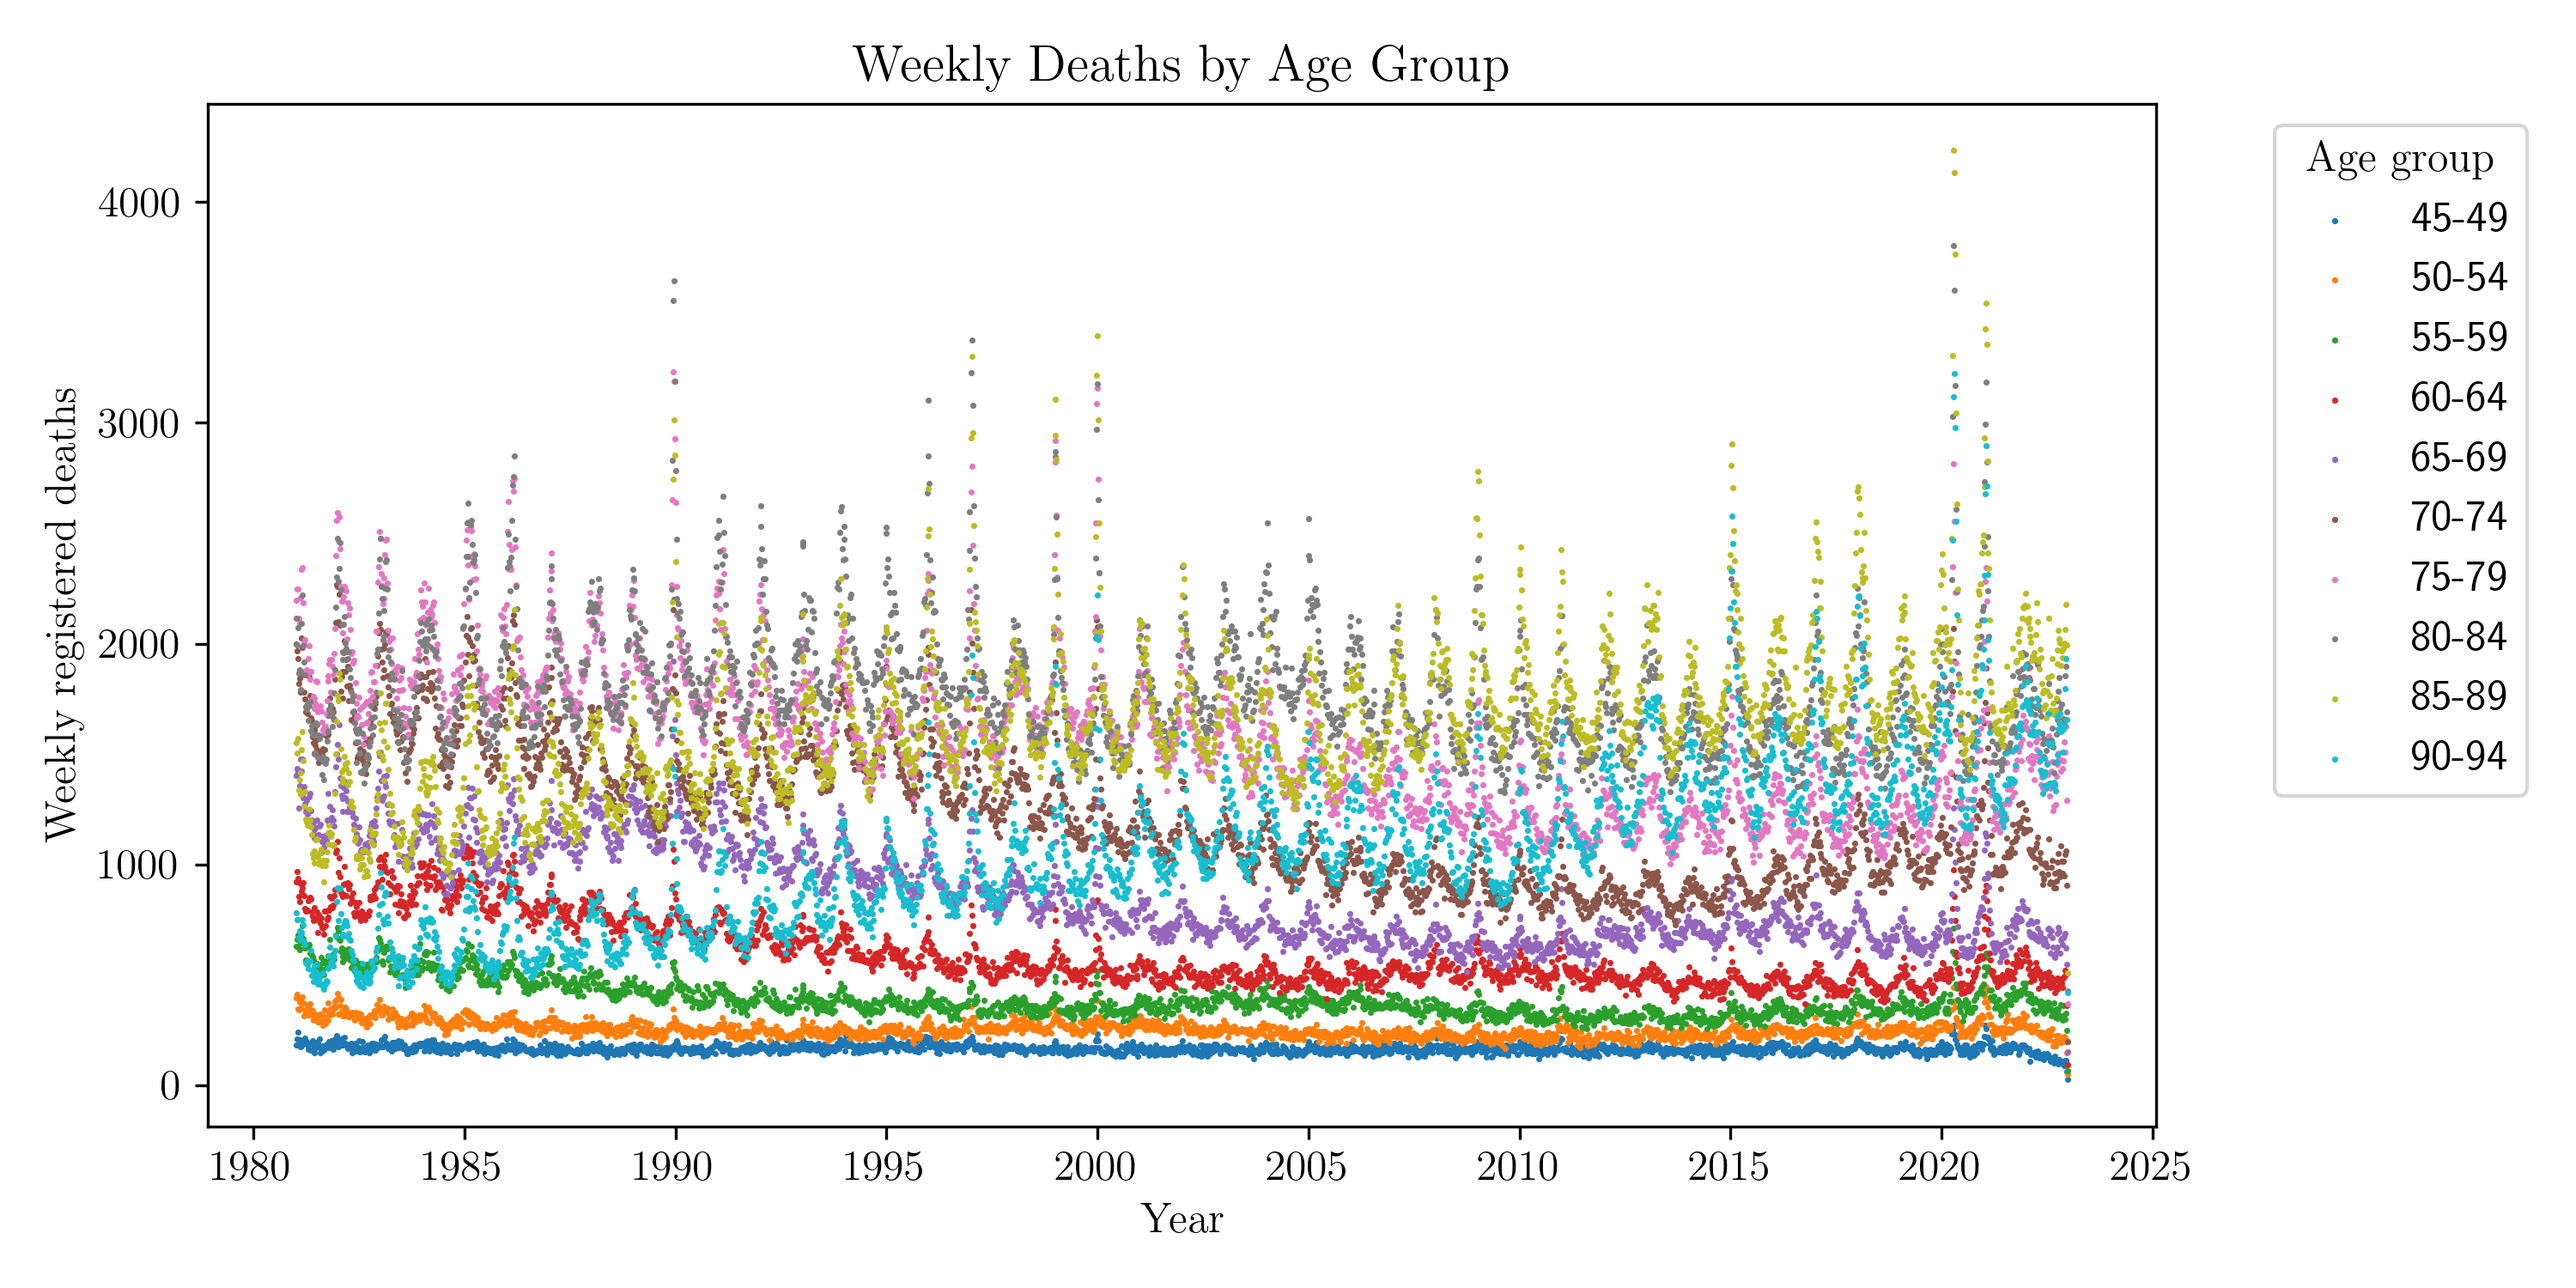
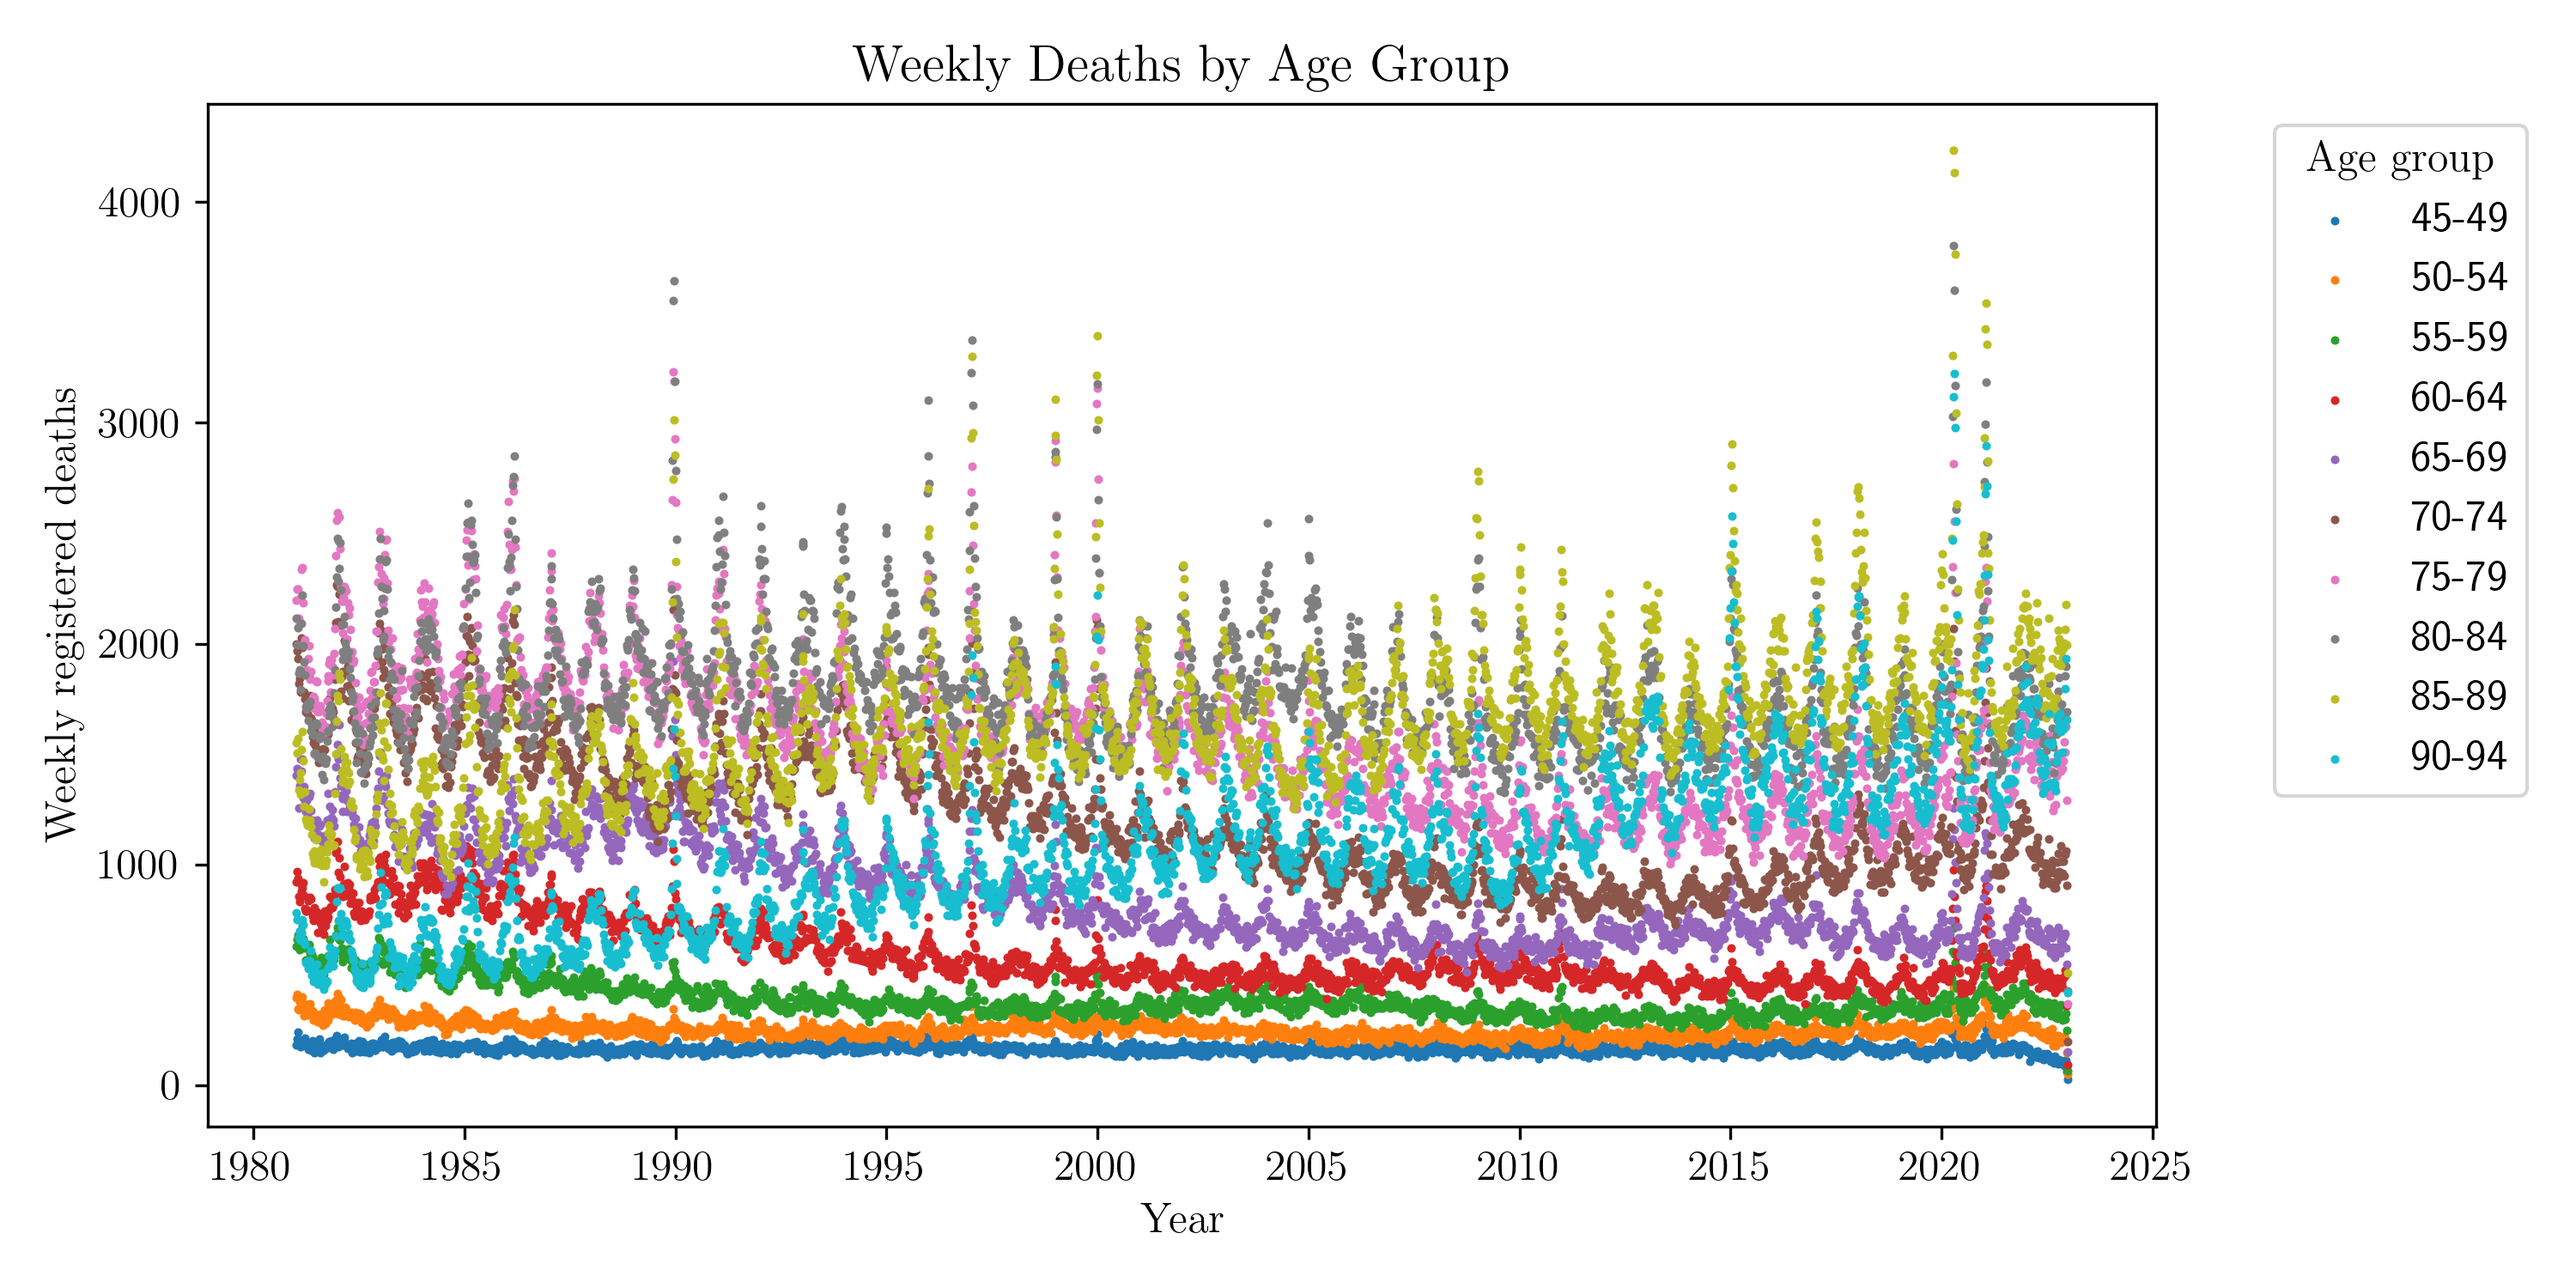
Added deaths vs temperature data exploration

Changed region(s): [[0.093, 0.4293, 0.806, 0.828]]

diff --git a/Data/PreliminaryDataExploration/temperature_vs_deaths/temperature_deaths.py b/Data/PreliminaryDataExploration/temperature_vs_deaths/temperature_deaths.py
@@ -1,0 +1,134 @@
+import numpy as np
+import pandas as pd
+import matplotlib.pyplot as plt
+plt.rc('text', usetex = True)  #TeX text on plots
+import scipy
+from scipy.optimize import *
+plt.rcParams.update({'font.size': 12})
+from matplotlib import colormaps
+
+list_of_regions = [
+    "NorthEast",
+    "NorthWest",
+    "YorkshireandtheHumber",
+    "EastMidlands",
+    "WestMidlands",
+    "East",
+    "London",
+    "SouthEast",
+    "SouthWest",
+    "Wales"
+]
+
+list_of_region_names_for_plots = [
+    "North East",
+    "North West",
+    "Yorkshire and the Humber",
+    "East Midlands",
+    "West Midlands",
+    "East",
+    "London",
+    "South East",
+    "South West",
+    "Wales"
+]
+
+list_of_region_codes = [
+    "E12000001",
+    "E12000002",
+    "E12000003",
+    "E12000004",
+    "E12000005",
+    "E12000006",
+    "E12000007",
+    "E12000008",
+    "E12000009",
+    "W92000004"
+]
+
+list_of_cities = [
+    "newcastle-upon-tyne",
+    "manchester",
+    "leeds",
+    "nottingham",
+    "birmingham",
+    "norwich",
+    "london",
+    "brighton-and-hove",
+    "bristol",
+    "cardiff"
+]
+
+#open deaths data
+deaths_data_loc = "../../HealthData/Weekly_deaths_by_age_and_region_1981_2022/"
+deaths_data_file = "weeklydeathoccurrences19812022final.csv"
+df = pd.read_csv(deaths_data_loc + deaths_data_file)
+print(df.head())
+
+df["Week_start_date_(Saturday)"] = pd.to_datetime(df["Week_start_date_(Saturday)"], errors="coerce")
+df["Week_end_date_(Friday)"] = pd.to_datetime(df["Week_end_date_(Friday)"], errors="coerce")
+df = df.sort_values("Week_start_date_(Saturday)")
+	
+#group by week, so male and female rows are combined
+df = df.groupby("Week_start_date_(Saturday)", as_index=False).sum(numeric_only=True)
+df = df.sort_values("Week_start_date_(Saturday)") 
+#Keep only rows up to December 31, 2019
+df = df[df["Week_start_date_(Saturday)"] <= "2019-12-31"]
+
+#make column of total weekly deaths for each region
+for i in range(len(list_of_region_codes)):
+	column_name = list_of_region_codes[i] + "_total_deaths"
+	region_cols = [c for c in df.columns if c.startswith(list_of_region_codes[i])]
+	df[column_name] = df[region_cols].sum(axis=1) 
+
+#for each week, make column of the mean of the 7 daily max temperatures
+for i in range(len(list_of_regions)):
+    #open weather data
+    weather_data_loc = f"../../Weather_data/{list_of_regions[i]}/"
+    weather_data_file = f"{list_of_cities[i]}_1981-01-01_to_2019-12-31.csv"
+    weather_df = pd.read_csv(weather_data_loc + weather_data_file)
+
+    weather_df["datetime"] = pd.to_datetime(weather_df["datetime"])
+
+    #create week start date (Saturday) for grouping
+    weather_df["Week_start_date_(Saturday)"] = weather_df["datetime"] - pd.to_timedelta(
+        (weather_df["datetime"].dt.dayofweek - 5) % 7, unit="D"
+    )
+
+    #group by week and compute average of max temperature
+    weekly_temp = (
+        weather_df.groupby("Week_start_date_(Saturday)", as_index=False)["tempmax"]
+        .mean()
+        .rename(columns={"tempmax": f"{list_of_region_codes[i]}_mean_tempmax"})
+    )    
+
+    #merge weekly temperature into deaths dataframe
+    df = df.merge(weekly_temp, on="Week_start_date_(Saturday)", how="left")
+
+#make individual plots for each region   
+for i in range(len(list_of_regions)):
+	x_data = list_of_region_codes[i] + "_mean_tempmax"
+	y_data = list_of_region_codes[i] + "_total_deaths"
+	plt.scatter(df[x_data], df[y_data], s = 2)
+	plt.xlabel(r'\rm Mean daily maximum temperature / $^{\circ}$C')
+	plt.ylabel(r'\rm Number of deaths')
+	title_str = r"\rm Weekly max temperature vs. deaths, 1981-2020: " + list_of_region_names_for_plots[i]
+	plt.title(title_str)
+	save_str = "Weekly_max_temp_vs_deaths_1981-2020_" + list_of_regions[i] + ".png"
+	plt.savefig(save_str, dpi = 300)
+	#plt.show()
+	plt.close()
+
+#makea single normalised plot for all regions	
+for i in range(len(list_of_regions)):
+	x_data = list_of_region_codes[i] + "_mean_tempmax"
+	y_data = list_of_region_codes[i] + "_total_deaths"
+	plt.scatter(df[x_data], df[y_data]/np.mean(df[y_data]), s = 2, color = 'tab:blue')
+plt.xlabel(r'\rm Mean daily maximum temperature / $^{\circ}$C')
+plt.ylabel(r'\rm Number of deaths (normalised)')
+title_str = r"\rm Avg. max. weekly temperature vs. deaths, 1981-2020: all regions"
+plt.title(title_str)
+save_str = "Weekly_max_temp_vs_deaths_1981-2020_all_regions.png"
+plt.savefig(save_str, dpi = 300)
+plt.show()
+

diff --git a/Data/PreliminaryDataExploration/temperature_vs_time/dailyTmax_vs_time.py b/Data/PreliminaryDataExploration/temperature_vs_time/dailyTmax_vs_time.py
@@ -1,0 +1,53 @@
+import numpy as np
+import pandas as pd
+import matplotlib.pyplot as plt
+plt.rc('text', usetex = True)  #TeX text on plots
+import scipy
+from scipy.optimize import *
+plt.rcParams.update({'font.size': 12})
+
+list_of_regions = [
+    "NorthEast",
+    "NorthWest",
+    "YorkshireandtheHumber",
+    "EastMidlands",
+    "WestMidlands",
+    "East",
+    "London",
+    "SouthEast",
+    "SouthWest",
+    "Wales"
+]
+
+list_of_cities = [
+    "newcastle-upon-tyne",
+    "manchester",
+    "leeds",
+    "nottingham",
+    "birmingham",
+    "norwich",
+    "london",
+    "brighton-and-hove",
+    "bristol",
+    "cardiff"
+]
+
+#at the moment, just one city per region, so one for loop
+for i in range(len(list_of_regions)):
+	#open data
+	weather_data_loc = "../../Weather_data/" + list_of_regions[i] + "/"
+	weather_data_file = list_of_cities[i] + "_1981-01-01_to_2019-12-31.csv"
+	df = pd.read_csv(weather_data_loc + weather_data_file)
+	print(df.head())
+
+	#convert date format
+	df["datetime"] = pd.to_datetime(df["datetime"], format="%Y-%m-%d")
+	
+	fig = plt.figure(figsize = (9,5))
+	plt.scatter(df["datetime"], df["tempmax"], s = 5)
+	plt.xlabel(r'\rm Year')
+	plt.ylabel(r'\rm Maximum daily temperature / $^{\circ}$C')
+	title_str = "Region: " + list_of_regions[i] + ", city: " + list_of_cities[i]
+	plt.title(title_str)
+	plt.savefig(list_of_regions[i] + "_" + list_of_cities[i] + '_daily_maximum_temperature.png', dpi=300)
+	#plt.show()

diff --git a/Data/PreliminaryDataExploration/deaths_vs_time_by_age/deaths_vs_time_by_age.py b/Data/PreliminaryDataExploration/deaths_vs_time_by_age/deaths_vs_time_by_age.py
@@ -47,8 +47,10 @@ colors = [cmap(i / max(N-1, 1)) for i in range(N)]
 for i, group in enumerate(age_groups_to_plot):
     col_name = group.replace("<","under").replace("+","plus")
     legend_label = group.replace("<", r"$<$").replace("+", r"$+$")  # LaTeX-safe
-    plt.scatter(df["Week_start"],df[f"deaths_{col_name}"],s=0.5,color=colors[i],label=legend_label)
+    plt.scatter(df["Week_start"],df[f"deaths_{col_name}"],s=2,color=colors[i],label=legend_label)
 
+#plt.xlim(pd.to_datetime('2003-01-01'), pd.to_datetime('2007-12-31'))
+#plt.ylim(-100,3000)
 plt.xlabel(r"\rm Year")
 plt.ylabel(r"\rm Weekly registered deaths")
 plt.title(r"\rm Weekly Deaths by Age Group")
